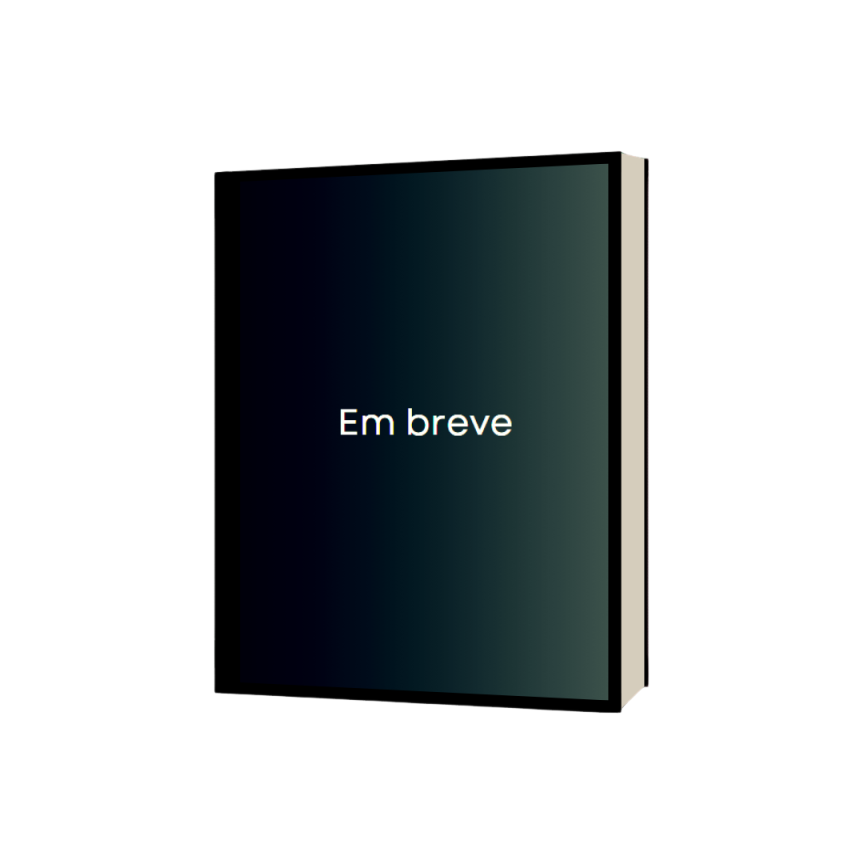
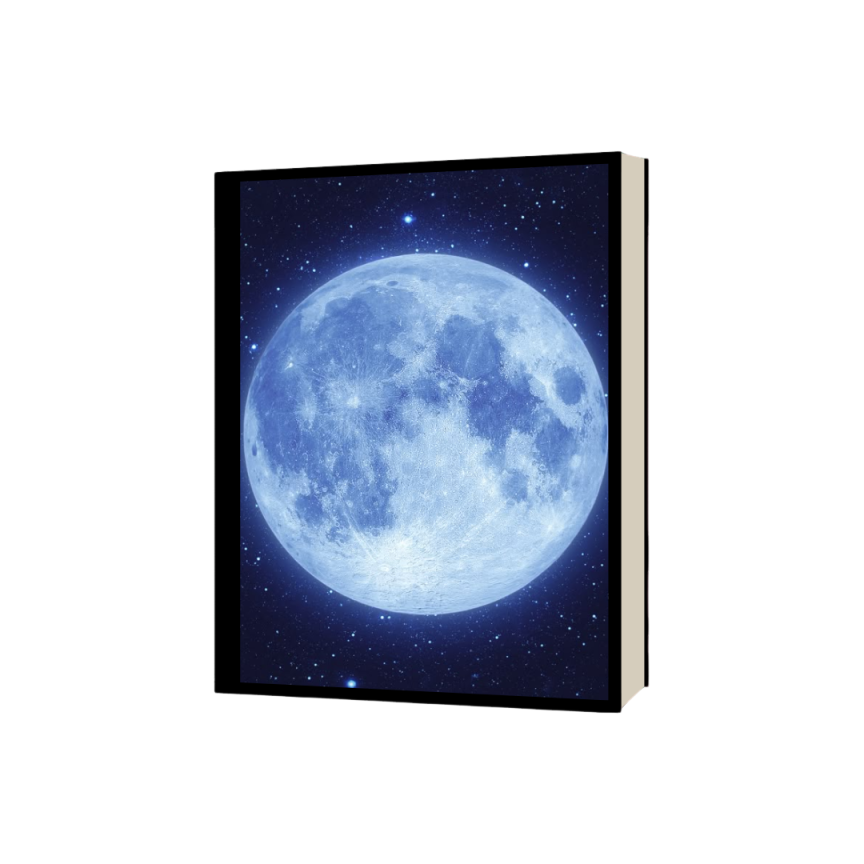
Atualização - desc do livro + mais redes sociais

Changed region(s): [[0.25, 0.1875, 0.7188, 0.8125]]

diff --git a/index.html b/index.html
@@ -19,6 +19,13 @@
             </header>
             <hr class="linha">
             <hr class="linha">
+
+                <div class="social-midia">
+                    <a href="https://www.instagram.com/nicobatistaa__/"><ion-icon name="logo-instagram"></ion-icon></a>
+                    <a href="https://x.com/OFCMegaLUL"><ion-icon name="logo-twitter"></ion-icon></a>
+                    <a href="https://discord.gg/V4wPVj4VbG"><ion-icon name="logo-discord"></ion-icon></a>
+                    <a href="https://www.patreon.com/c/nicolasbfernandes/collections"><img src="./imagens/patreon.png" alt="patreon-logo"></a>
+                </div>
     
             <div class="main">    
                 <div class="services">
@@ -112,7 +119,13 @@
                         <div class="slide" id="moonlight">
                             <div class="book-info">
                                 <h3>Moonlight</h3>
-                                <p>Descrição breve do livro sem muitos spoilers.</p>
+                                <p>Há milhares de anos, existiu uma deusa. Rivalizando com a esperança, a antagonista de todo conceito natural que se formalizou até então, ela trouxe, consigo, a lua, a escuridão — o início. As estrelas se alinharam à sua vontade, criaram energia cósmica das constelações, magia. Bela ou não, vilã ou heróica, ela surgiu, infinita era sua presença. Tudo que é conhecido, que nasceu — árvores, terra, vidas, seres místicos, tudo. A única exceção, claro, era o Sol.
+                                <br>
+                                <br>
+                                    De origem desconhecida, Moon Stellar se vê nesse mundo mágico, obrigada a seguir numa jornada perigosa. Entretanto, conceitos estão á risca, filosofias a serem quebradas, remodeladas. Diferentemente da sua idealização de jornada inicial, as estrelas escolheram planos controvérsios aos seus sonhos. Um objetivo individual, e um objetivo lhe imposto por uma vontade maior.
+                                    <br><br>
+                                    Laços fortes e fracos estão sujeitos a cairem no abismo, reafirmar ou quebrar — solidão, medo, injustiça, dor... Infinitos sentimentos podem tomar uma forma sólida.
+                                    <br>"Cumpra seu papel, Moon Stellar."</p>
                                 <a class="botao-carr" href="/">Em Breve!</a>
                             </div>
                             <img src="././imagens/moonlight-book.png" alt="Moonlight" class="book-img">
@@ -143,9 +156,13 @@
             </div>
             <div class="social-midia">
                 <a href="https://www.instagram.com/nicobatistaa__/"><ion-icon name="logo-instagram"></ion-icon></a>
+                <a href="https://x.com/OFCMegaLUL"><ion-icon name="logo-twitter"></ion-icon></a>
+                <a href="https://discord.gg/V4wPVj4VbG"><ion-icon name="logo-discord"></ion-icon></a>
+                <a href="https://www.patreon.com/c/nicolasbfernandes/collections"><img src="./imagens/patreon-w.png" alt="patreon-logo"></a>
                 <a href="https://wa.me/551998820955?text=Olá! Me interessei pelos seus serviços, podemos conversar?""><ion-icon name="logo-whatsapp"></ion-icon></a>
                 <a href="mailto:nicolasbatistafernandes@gmail.com"><ion-icon name="mail-outline"></ion-icon></a>
             </div>
+
             <hr class="linha">
             
             <div class="merch-main">

diff --git a/css/index.css b/css/index.css
@@ -65,6 +65,34 @@
         border-radius: 100%;
     }
     
+
+    .social-midia {
+        display: flex;
+        justify-content: center;
+        gap: 50px;
+        padding: 15px;
+    }
+
+    .social-midia img{
+        width: 22px;
+        height: auto;
+    }
+
+    .social-midia img:hover{
+        transform: scale(1.2);
+    }
+
+    .social-midia ion-icon {
+        font-size: 25px;
+        color: black;
+        cursor: pointer;
+        transition: transform 0.3s ease;
+    }
+
+    .social-midia ion-icon:hover {
+        transform: scale(1.2);
+    }
+
     .linha {
         border: none;
         height: 1px;
@@ -89,7 +117,7 @@
         display: flex;
         flex-direction: column;
         justify-content: space-evenly;
-        padding: 20px;
+        padding: 0px 20px;
     }
     
     .aboutme{
@@ -215,12 +243,12 @@
     }
     
     .book-info h3 {
-        font-size: 24px;
+        font-size: 20px;
         margin-bottom: 10px;
     }
     
     .book-info p {
-        font-size: 16px;
+        font-size: 12px;
         line-height: 1.5;
     }
     
@@ -356,8 +384,17 @@
         margin: 15px 0;
     }
 
+    .social-midia img{
+        width: 22px;
+        height: auto;
+    }
+
+    .social-midia img:hover{
+        transform: scale(1.2);
+    }
+
     .social-midia ion-icon {
-        font-size: 28px;
+        font-size: 25px;
         color: white;
         cursor: pointer;
         transition: transform 0.3s ease;
